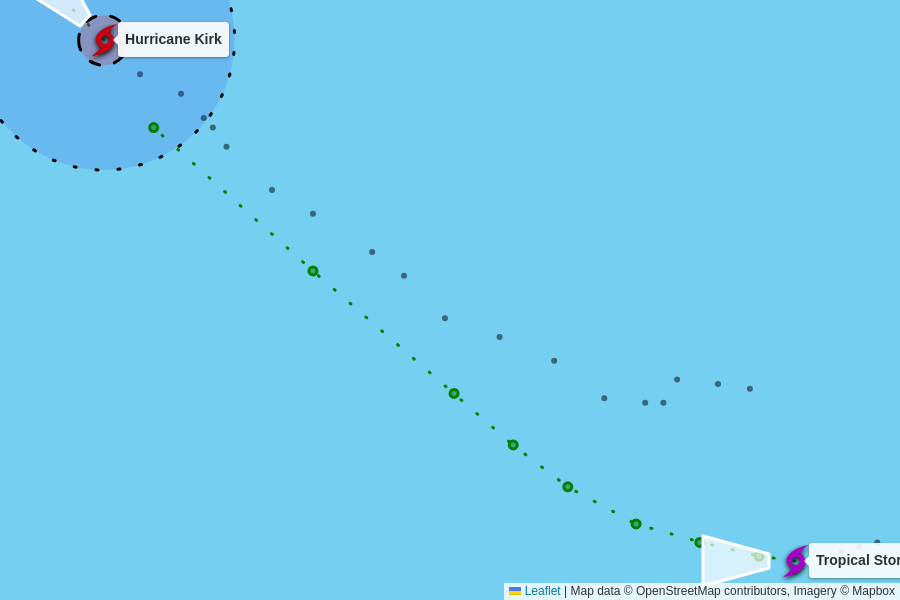
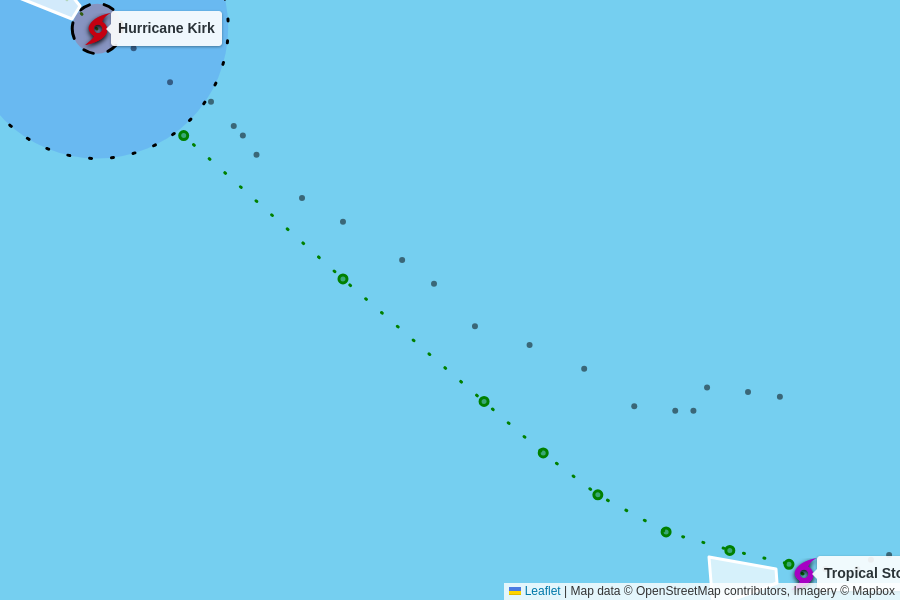
automatic update

diff --git a/docs/index.html b/docs/index.html
@@ -101,10 +101,10 @@
 
     <table>
       <tr>
-        <td colspan="6" class="storm category-4" >
+        <td colspan="6" class="storm category-0" >
           <h2>
-            Hurricane Kirk - Category 4
-            <p class="updated">last updated <span data-time>2024-10-03T21:00:00.000Z</span></p>
+            Tropical Storm Leslie
+            <p class="updated">last updated <span data-time>2024-10-04T03:00:00.000Z</span></p>
           </h2>
         </td>
       </tr>
@@ -119,21 +119,21 @@
       </tr>
       <tr>
         <td class="spacer"></td>
-        <td>130 mph<br>+5 mph since last update</td>
-        <td>945 mb<br>-3 mb since last update</td>
+        <td>50 mph<br>0 mph since last update</td>
+        <td>1001 mb<br>0 mb since last update</td>
         <td>
-          12 mph to the northwest
+          6 mph to the west
           <br/>
-          <span style="display: inline-block; font-size: 1.5em; transform: rotate(315deg);">↑</span>
+          <span style="display: inline-block; font-size: 1.5em; transform: rotate(265deg);">↑</span>
         </td>
-        <td><a href="https://raw.githubusercontent.com/mgwalker/atlantic-hurricanes/main/data/csv/AL122024.csv">AL122024.csv</a></td>
-        <td><a href="https://www.nhc.noaa.gov/archive/2024/KIRK.shtml?">NHC advisories</a></td>
+        <td><a href="https://raw.githubusercontent.com/mgwalker/atlantic-hurricanes/main/data/csv/AL132024.csv">AL132024.csv</a></td>
+        <td><a href="https://www.nhc.noaa.gov/archive/2024/LESLIE.shtml?">NHC advisories</a></td>
       </tr>
-      <tr id="storm_AL122024" >
+      <tr id="storm_AL132024" >
         <td class="spacer">
         <td colspan="5">
           <figure>
-            <img src="AL122024.png">
+            <img src="AL132024.png">
             <figcaption>
               Map data &copy; <a href="https://www.openstreetmap.org/copyright">OpenStreetMap</a> contributors,
               Imagery &copy; <a href="https://www.mapbox.com/">Mapbox</a> |
@@ -145,10 +145,10 @@
       
 
       <tr>
-        <td colspan="6" class="storm category-0" >
+        <td colspan="6" class="storm category-4" >
           <h2>
-            Tropical Storm Leslie
-            <p class="updated">last updated <span data-time>2024-10-03T21:00:00.000Z</span></p>
+            Hurricane Kirk - Category 4
+            <p class="updated">last updated <span data-time>2024-10-04T03:00:00.000Z</span></p>
           </h2>
         </td>
       </tr>
@@ -163,21 +163,21 @@
       </tr>
       <tr>
         <td class="spacer"></td>
-        <td>50 mph<br>+5 mph since last update</td>
-        <td>1001 mb<br>-1 mb since last update</td>
+        <td>145 mph<br>+15 mph since last update</td>
+        <td>935 mb<br>-10 mb since last update</td>
         <td>
-          6 mph to the west
+          10 mph to the northwest
           <br/>
-          <span style="display: inline-block; font-size: 1.5em; transform: rotate(270deg);">↑</span>
+          <span style="display: inline-block; font-size: 1.5em; transform: rotate(305deg);">↑</span>
         </td>
-        <td><a href="https://raw.githubusercontent.com/mgwalker/atlantic-hurricanes/main/data/csv/AL132024.csv">AL132024.csv</a></td>
-        <td><a href="https://www.nhc.noaa.gov/archive/2024/LESLIE.shtml?">NHC advisories</a></td>
+        <td><a href="https://raw.githubusercontent.com/mgwalker/atlantic-hurricanes/main/data/csv/AL122024.csv">AL122024.csv</a></td>
+        <td><a href="https://www.nhc.noaa.gov/archive/2024/KIRK.shtml?">NHC advisories</a></td>
       </tr>
-      <tr id="storm_AL132024" >
+      <tr id="storm_AL122024" >
         <td class="spacer">
         <td colspan="5">
           <figure>
-            <img src="AL132024.png">
+            <img src="AL122024.png">
             <figcaption>
               Map data &copy; <a href="https://www.openstreetmap.org/copyright">OpenStreetMap</a> contributors,
               Imagery &copy; <a href="https://www.mapbox.com/">Mapbox</a> |
